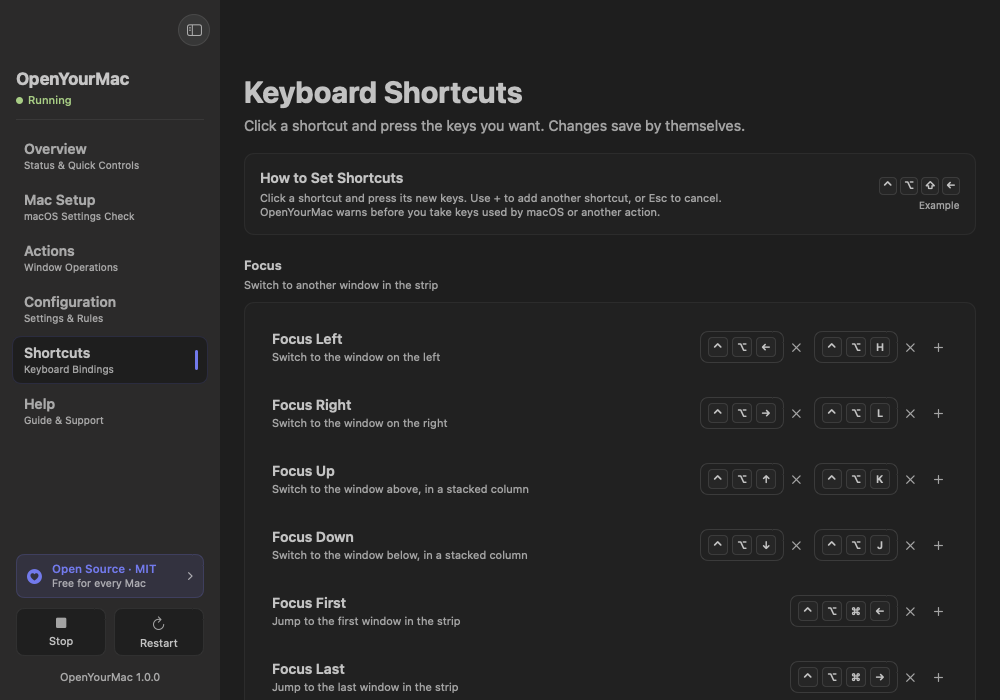
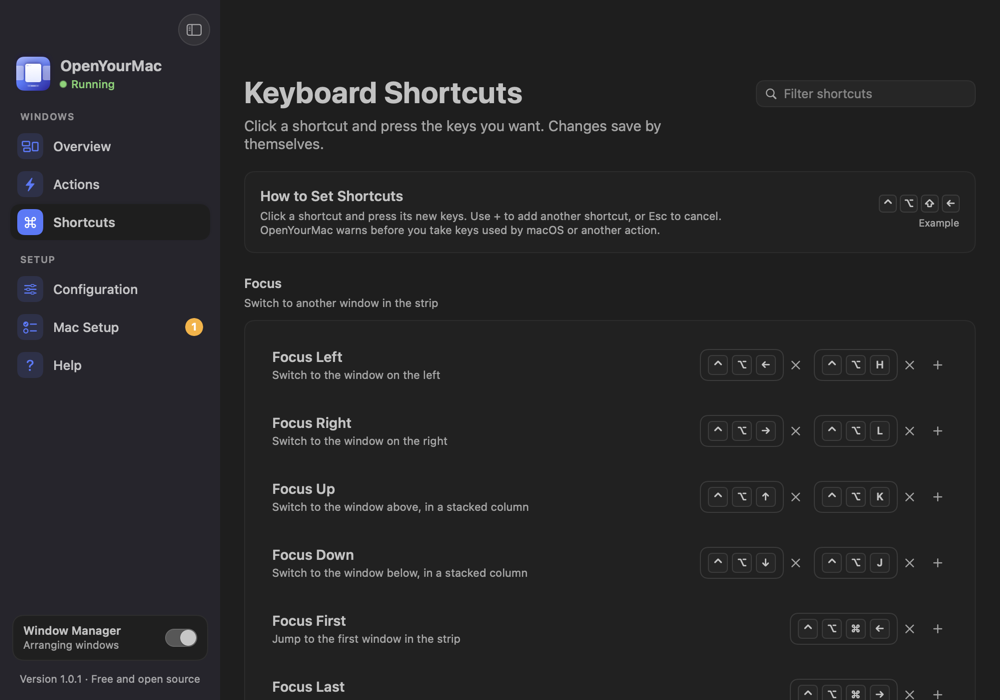
docs: show the live strip map and describe the new app features
Replace the README screenshot with the Overview live map, refresh the
Shortcuts screenshot, and remove unused images. Update Help paths for
the topic tabs and add an Unreleased changelog section.

diff --git a/app/Sources/OpenYourMac/Debug/SnapshotRenderer.swift b/app/Sources/OpenYourMac/Debug/SnapshotRenderer.swift
@@ -130,12 +130,12 @@ enum SnapshotRenderer {
             )
         }
         let columns: [[EngineSnapshot.Window]] = [
-            [window(1, "com.apple.mail", "Mail", x: -1060, width: 1000)],
-            [window(2, "com.apple.Safari", "Safari", x: -40, width: 820)],
-            [window(3, "com.apple.dt.Xcode", "Xcode", x: 790, width: 700, focused: true)],
-            [window(4, "com.apple.Terminal", "Terminal", x: 1500, width: 600, height: 464),
-             window(5, "com.apple.Notes", "Notes", x: 1500, y: 510, width: 600, height: 464)],
-            [window(6, "com.apple.finder", "Finder", x: 2110, width: 760)],
+            [window(1, "com.apple.mail", "Mail", x: -1012, width: 1000)],
+            [window(2, "com.apple.Safari", "Safari", x: 8, width: 820)],
+            [window(3, "com.apple.dt.Xcode", "Xcode", x: 836, width: 668, focused: true)],
+            [window(4, "com.apple.Terminal", "Terminal", x: 1512, width: 600, height: 464),
+             window(5, "com.apple.Notes", "Notes", x: 1512, y: 510, width: 600, height: 464)],
+            [window(6, "com.apple.finder", "Finder", x: 2120, width: 760)],
         ]
         let layout = StripLayout(
             displayID: 1, displayName: "Built-in Display", viewport: screen,

diff --git a/README.md b/README.md
@@ -11,8 +11,8 @@
 
 <p align="center">
   <picture>
-    <source media="(prefers-color-scheme: dark)" srcset="docs/images/configuration-dark.png">
-    <img src="docs/images/configuration-light.png" width="760" alt="OpenYourMac settings: the Configuration page">
+    <source media="(prefers-color-scheme: dark)" srcset="docs/images/overview-dark.png">
+    <img src="docs/images/overview-light.png" width="760" alt="OpenYourMac Overview: a live map of the strip, with the screen marked and the focused window highlighted">
   </picture>
 </p>
 
@@ -30,6 +30,8 @@ endorsed by ChainYourMac or its developer. OpenYourMac uses its own config path,
 
 ## Features
 
+- A live map of each display's strip in the app. Click a column to focus it.
+  The menu bar's **Windows** menu lists the same columns.
 - Strip layout with preset widths, full width, and column centering options.
 - Stacks and tabs: show several windows in one column, split or one at a time.
 - Pinned columns at the left and right edges.
@@ -39,7 +41,9 @@ endorsed by ChainYourMac or its developer. OpenYourMac uses its own config path,
 - Session restore, native tab groups, floating dialogs, window rules, and
   per-display controls.
 - Editable shortcuts and a Mac Setup page that checks for common conflicts.
-- A SwiftUI settings app, Raycast scripts, URL actions, and a CLI.
+- A SwiftUI settings app with search on the Shortcuts and Actions pages.
+- Raycast scripts, URL actions and page links, and a CLI.
+- Signed updates that wait for you: a badge, not an interruption.
 
 ## Requirements
 
@@ -134,7 +138,7 @@ Numbered actions address columns, not individual members of a stack.
 
 The app uses `~/.config/openyourmac/openyourmac.toml`. It saves changes in place
 and preserves comments and unknown keys. The engine reloads the file when it
-changes. The app's **Help › Settings File Reference** and the
+changes. The app's **Help › Settings File** and the
 [default config](resources/default-config.toml) cover the main settings.
 They are not a complete list of accepted engine keys.
 
@@ -184,8 +188,9 @@ Export Raycast scripts from **Help › Integrations**. See the
 ## Troubleshooting and FAQ
 
 **Accessibility was lost after a rebuild or update.** Keep one app copy in
-`/Applications`. Ad-hoc rebuilds can change its signature. Use **Help ›
-Troubleshooting › Repair Permission…**, then allow it again in Accessibility.
+`/Applications`. Ad-hoc rebuilds can change its signature. After an update, Overview shows
+**Reset and Allow Again**. You can also use **Help › Guide › Troubleshooting ›
+Repair Permission…**. Then allow the app again in Accessibility.
 
 **Windows jump or shortcuts fail.** Quit other window managers and disable their
 login items. Check **Mac Setup** and shortcut conflicts. Two managers can act on
@@ -205,12 +210,15 @@ Review warnings as well as the exit status. A skipped binding can produce a
 warning even when validation succeeds.
 
 **Where is the log?** `~/Library/Logs/OpenYourMac/engine.log`. Reveal it from
-**Help › System Information**. Detailed logging includes window titles. Review
+**Help › About**. Detailed logging includes window titles. Review
 logs for private data before sharing them and turn detailed logging off afterward.
 
 **How do updates work?** Sparkle checks for updates once a day when automatic
-checks are on. Use **Check for Updates…** in Configuration or the menu bar to
-check now. Sparkle verifies signed updates, installs them, and relaunches the app.
+checks are on. A new version shows a badge in the menu bar and the sidebar
+instead of an alert in front of your work. **Configuration › Updates** shows
+the current version and status. Use **Check Now** there, or **Check for
+Updates…** in the menu bar, to check now. A downloaded update offers
+**Restart to Update**. The window manager comes back as it was. Sparkle verifies signed updates, installs them, and relaunches the app.
 In Configuration, you can also enable automatic downloads and installation when
 the app quits. Existing automatic-check opt-outs are preserved. Update feeds and
 downloads come from the [Cloudflare feed](https://openyourmac-updates.sergeserbinenko.com/appcast.xml).

diff --git a/CHANGELOG.md b/CHANGELOG.md
@@ -6,6 +6,33 @@
 Changes follow [Keep a Changelog](https://keepachangelog.com/en/1.1.0/).
 Versions follow [Semantic Versioning](https://semver.org/).
 
+## [Unreleased]
+
+### Added
+
+- A live map of each display's strip on Overview. Click a column to focus it.
+- A Windows submenu in the menu bar that lists and focuses strip columns.
+- An Updates section with version, status, and Check Now or Restart to Update.
+- Update badges in the menu bar and sidebar instead of alerts during work.
+- Search on the Shortcuts and Actions pages.
+- `openyourmac://open/<page>[/<section>]` and `openyourmac://strip/show` URLs.
+- Go menu shortcuts (Command-1 to Command-6) for each page.
+- The engine's state query reports each window's strip `column`.
+
+### Changed
+
+- A new sidebar with page icons, groups, a Mac Setup badge, and a window
+  manager switch.
+- Help shows one topic at a time: Guide, Shortcuts, Settings File,
+  Integrations, and About.
+- Configuration has section chips; numbered actions use a compact pad.
+
+### Fixed
+
+- After an update relaunch, the window manager and window return as they were.
+- After an update that loses Accessibility access, Overview explains how to
+  allow the app again.
+
 ## [1.0.1] - 2026-10-23
 
 ### Added

diff --git a/docs/setup.md b/docs/setup.md
@@ -16,7 +16,7 @@ permission.
    OpenYourMac in your Applications folder.
 
 If OpenYourMac is already on but the app still says the permission is missing
-(this can happen after an update), use **Help › Troubleshooting › Repair
+(this can happen after an update), use **Help › Guide › Troubleshooting › Repair
 Permission…**. It removes the old entry and asks again.
 
 ## 2. Keep OpenYourMac in Applications
